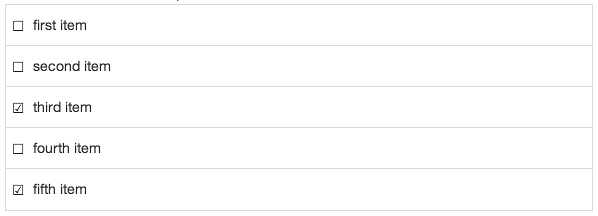
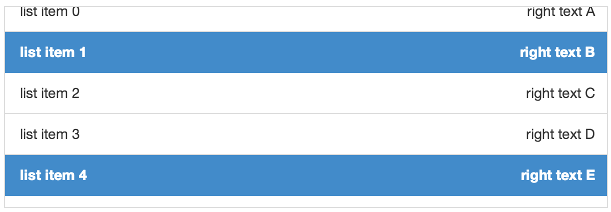
deliteful/list/List with listbox aria role is now compatible with VoiceOver on iOS.

diff --git a/samples/list/listBox-singleSelection-markAfter.html b/samples/list/listBox-singleSelection-markAfter.html
@@ -26,8 +26,8 @@
 			console.innerHTML = "Click to select an item.";
 			document.body.appendChild(console);
 			var list = register.createElement("d-list");
+			list.isAriaListbox = true;
 			list.setAttribute("aria-label", "Sample list with single selection mode enabled and selection checkmarks displayed after the items");
-			list.selectionMode = "single";
 			list.store.add({label: "first item"});
 			list.store.add({label: "second item"});
 			list.store.add({label: "third item"});
@@ -45,17 +45,15 @@
 		});
 	</script>
 	<style type="text/css">
-		/* CSS to place the selection mark after the list item instead of before the list item */
-		.d-selectable .d-list-item::before {
-			display: none;
+		/* CSS to add a selection mark on the default item renderer */
+		.d-selectable .d-selected .d-list-item-right-icon::after {
+			content: "\2713";
+			padding-right: 5px;
 		}
-		.d-selectable .d-list-item::after {
-			display: block;
-		}		
 	</style>
 </head>
 <body role="application">
-	This sample demonstrate a list with single selection mode enabled, and the selection mark placed after the list item.
+	This sample demonstrate a list with listbox aria role, single selection mode enabled and custom CSS to display a selection mark after the currently selected item(s).
 	<input autofocus></input><br>
 </body>
 </html>

diff --git a/list/List/themes/bootstrap/List_css.js b/list/List/themes/bootstrap/List_css.js
@@ -14,6 +14,10 @@ define(function () {
   border: 1px solid #dddddd;\
   background-color: #ffffff;\
 }\
+.d-selectable .d-list-item:hover,\
+.d-multiselectable .d-list-item:hover {\
+  background-color: #f5f5f5;\
+}\
 .d-round-rect-list {\
   border: 1px solid #dddddd;\
   border-radius: 4px;\
@@ -175,27 +179,16 @@ d-list-store {\
 .d-list-loading-panel-info svg {\
   vertical-align: middle;\
 }\
-.d-selectable .d-list-item::before,\
-.d-multiselectable .d-list-item::before {\
-  font-size: large;\
-  padding-left: 5px;\
-  display: block;\
-  content: \"\\2610\";\
+.d-selectable,\
+.d-multiselectable {\
+  cursor: pointer;\
 }\
-.d-selectable .d-list-item.d-selected::before,\
-.d-multiselectable .d-list-item.d-selected::before {\
-  content: \"\\2611\";\
-}\
-.d-selectable .d-list-item::after,\
-.d-multiselectable .d-list-item::after {\
-  font-size: large;\
-  padding-right: 5px;\
-  display: none;\
-  content: \"\\2610\";\
-}\
-.d-selectable .d-list-item.d-selected::after,\
-.d-multiselectable .d-list-item.d-selected::after {\
-  content: \"\\2611\";\
+.d-selectable .d-list-item.d-selected,\
+.d-multiselectable .d-list-item.d-selected {\
+  border-bottom: 1px solid #428bca;\
+  background-color: #428bca;\
+  color: #ffffff;\
+  font-weight: bold;\
 }\
 .d-list-container {\
   position: relative;\

diff --git a/list/List/themes/holodark/List_css.js b/list/List/themes/holodark/List_css.js
@@ -173,27 +173,15 @@ d-list-store {\
 .d-list-loading-panel-info svg {\
   vertical-align: middle;\
 }\
-.d-selectable .d-list-item::before,\
-.d-multiselectable .d-list-item::before {\
-  font-size: large;\
-  padding-left: 5px;\
-  display: block;\
-  content: \"\\2610\";\
+.d-selectable,\
+.d-multiselectable {\
+  cursor: pointer;\
 }\
-.d-selectable .d-list-item.d-selected::before,\
-.d-multiselectable .d-list-item.d-selected::before {\
-  content: \"\\2611\";\
-}\
-.d-selectable .d-list-item::after,\
-.d-multiselectable .d-list-item::after {\
-  font-size: large;\
-  padding-right: 5px;\
-  display: none;\
-  content: \"\\2610\";\
-}\
-.d-selectable .d-list-item.d-selected::after,\
-.d-multiselectable .d-list-item.d-selected::after {\
-  content: \"\\2611\";\
+.d-selectable .d-list-item.d-selected,\
+.d-multiselectable .d-list-item.d-selected {\
+  background-color: white;\
+  color: black;\
+  font-weight: bold;\
 }\
 .d-list-container {\
   position: relative;\

diff --git a/list/List/themes/ios/List_css.js b/list/List/themes/ios/List_css.js
@@ -173,27 +173,14 @@ d-list-store {\
 .d-list-loading-panel-info svg {\
   vertical-align: middle;\
 }\
-.d-selectable .d-list-item::before,\
-.d-multiselectable .d-list-item::before {\
-  font-size: large;\
-  padding-left: 5px;\
-  display: block;\
-  content: \"\\2610\";\
+.d-selectable,\
+.d-multiselectable {\
+  cursor: pointer;\
 }\
-.d-selectable .d-list-item.d-selected::before,\
-.d-multiselectable .d-list-item.d-selected::before {\
-  content: \"\\2611\";\
-}\
-.d-selectable .d-list-item::after,\
-.d-multiselectable .d-list-item::after {\
-  font-size: large;\
-  padding-right: 5px;\
-  display: none;\
-  content: \"\\2610\";\
-}\
-.d-selectable .d-list-item.d-selected::after,\
-.d-multiselectable .d-list-item.d-selected::after {\
-  content: \"\\2611\";\
+.d-selectable .d-list-item.d-selected,\
+.d-multiselectable .d-list-item.d-selected {\
+  background-color: #adaaad;\
+  font-weight: bold;\
 }\
 .d-list-container {\
   position: relative;\

diff --git a/samples/list/listBox-multipleSelection-markBefore.html b/samples/list/listBox-multipleSelection-markBefore.html
@@ -27,6 +27,7 @@
 			console.innerHTML = "Click to select an item.";
 			document.body.appendChild(console);
 			var list = register.createElement("d-list");
+			list.isAriaListbox = true;
 			list.setAttribute("aria-label", "Sample list with multiple selection mode enabled");
 			list.selectionMode = "multiple";
 			list.store.add({label: "first item"});
@@ -45,9 +46,16 @@
 			list.startup();
 		});
 	</script>
+	<style type="text/css">
+		/* CSS to add a selection mark on the default item renderer */
+		.d-multiselectable .d-selected .d-list-item-icon::before {
+			content: "\2713";
+			padding-left: 5px;
+		}
+	</style>
 </head>
 <body role="application">
-	This sample demonstrate a list with multiple selection mode enabled.
+	This sample demonstrate a list with listbox aria role, multiple selection mode enabled and custom CSS to display a selection mark before the currently selected item(s).
 	<input autofocus></input><br>
 </body>
 </html>

diff --git a/list/List/ItemRenderer.html b/list/List/ItemRenderer.html
@@ -1,10 +1,10 @@
 <!-- Template: deliteful/list/ItemRenderer.html (d-list-item-renderer) -->
 <template>
 	<div attach-point="renderNode">
-		<div class="d-list-item-icon {{item.iconclass}}"></div>
+		<div class="d-list-item-icon {{item.iconclass}}" aria-hidden="true" role="presentation"></div>
 		<div class="d-list-item-label">{{item.label}}</div>
 		<div class="d-spacer"></div>
 		<div class="d-list-item-right-text">{{item.righttext}}</div>
-		<div class="d-list-item-right-icon {{item.righticonclass}}"></div>
+		<div class="d-list-item-right-icon {{item.righticonclass}}" aria-hidden="true" role="presentation"></div>
 	</div>
 </template>

diff --git a/list/List/themes/List_template.less b/list/List/themes/List_template.less
@@ -147,23 +147,9 @@ d-list-store {
 }
 
 .d-selectable, .d-multiselectable {
-	.d-list-item::before {
-		font-size: large;
-		padding-left: 5px;
-		display: block;
-		content: "\2610";
-	}	
-	.d-list-item.d-selected::before {
-		content: "\2611";
-	}
-	.d-list-item::after {
-		font-size: large;
-		padding-right: 5px;
-		display: none;
-		content: "\2610";
-	}	
-	.d-list-item.d-selected::after {
-		content: "\2611";
+	cursor: pointer;
+	.d-list-item.d-selected {
+		.d-list-item-selected-style;
 	}
 }
 

diff --git a/list/List/themes/bootstrap/List.less b/list/List/themes/bootstrap/List.less
@@ -31,6 +31,19 @@
 	}
 }
 
+.d-selectable, .d-multiselectable {
+	.d-list-item:hover {
+		background-color: @list-group-hover-bg;	
+	}
+}
+
+.d-list-item-selected-style() {
+	border-bottom: 1px solid @list-group-active-border;
+	background-color: @list-group-active-bg;
+	color: @list-group-active-color;
+	font-weight: bold;
+}
+
 .d-list-item-label-style() {
 }
 

diff --git a/list/List/themes/holodark/List.less b/list/List/themes/holodark/List.less
@@ -34,6 +34,12 @@
 	}
 }
 
+.d-list-item-selected-style() {
+	background-color: white;
+	color: black;
+	font-weight: bold;
+}
+
 .d-list-item-label-style() {
 	font-weight: bold;
 }

diff --git a/list/List/themes/ios/List.less b/list/List/themes/ios/List.less
@@ -34,6 +34,11 @@
 	}
 }
 
+.d-list-item-selected-style() {
+	background-color: #adaaad;
+	font-weight: bold;
+}
+
 .d-list-item-label-style() {
 	font-weight: bold;
 }

diff --git a/docs/list/List.md b/docs/list/List.md
@@ -359,7 +359,7 @@ To define variable height for the categories, use the following CSS:
 
 When a category has the focus, the style of the cell in which it is rendered can be defined using the css selector `.d-list-category .d-list-cell:focus`.
 
-### Selection Marks Styling
+### Selection Styling
 
 Depending on the `selectionMode` property value, the following CSS classes are added to the list:
 * `d-selectable` when `selectionMode` is `single`;
@@ -367,70 +367,22 @@ Depending on the `selectionMode` property value, the following CSS classes are a
 
 The CSS class `d-selected` is added to each list item that is currently selected.
 
-By default, selectable List displays a selection mark before each list item. The CSS can be customized to display the selection mark after each list item, using the following rules:
+The style of a selected item can be customized using the following css:
 
 ```css
-	.d-selectable .d-list-item::before,.d-multiselectable .d-list-item::before {
-		display: none;
-	}
-	.d-selectable .d-list-item::after,.d-multiselectable .d-list-item::after {
-		display: block;
-	}
-```
-
-![Selectable Mark After](images/SelectableMarkAfter.png)
-
-The check mark for selectable items is rendered in a _before_ of _after_ pseudo element that can be customized using the following CSS:
-
-```css
-/*================
-  Selection mode = "single"
-=================*/
-
-/* unselected mark placed BEFORE each list item */
-.d-selectable .d-list-item::before {
-	content: ...
+/* CSS selector for a selected item in a list with selectionMode = "single" */
+.d-selectable .d-list-item.d-selected {
+    ...
 }
 
-/* selected mark placed BEFORE each list item */
-.d-selectable .d-list-item.d-selected::before {
-	content: ...
-}
-
-/* unselected mark placed AFTER each list item */
-.d-selectable .d-list-item::after {
-	content: ...
-}
-
-/* selected mark placed AFTER each list item */
-.d-selectable .d-list-item.d-selected::after {
-	content: ...
-}
-
-/*================
-  Selection mode = "multiple"
-=================*/
-
-/* unselected mark placed BEFORE each list item */
-.d-multiselectable .d-list-item::before {
-	content: ...
-}
-
-/* selected mark placed BEFORE each list item */
-.d-multiselectable .d-list-item.d-selected::before {
-	content: ...
-}
-
-/* unselected mark placed AFTER each list item */
-.d-multiselectable .d-list-item::after {
-	content: ...
-}
-
-/* selected mark placed AFTER each list item */
-.d-multiselectable .d-list-item.d-selected::after {
-	content: ...
+/* CSS selector for a selected item in a list with selectionMode = "multiple" */
+.d-multiselectable .d-list-item.d-selected {
+    ...
 }
 ```
+
+To illustrates these concepts, here is a sample that demonstrates how to use CSS to display a checkmark on selected items using the default item renderer:
+
 TODO: INSERT JSFIDDLE SAMPLE HERE ?
 
 <a name="interactions"></a>
